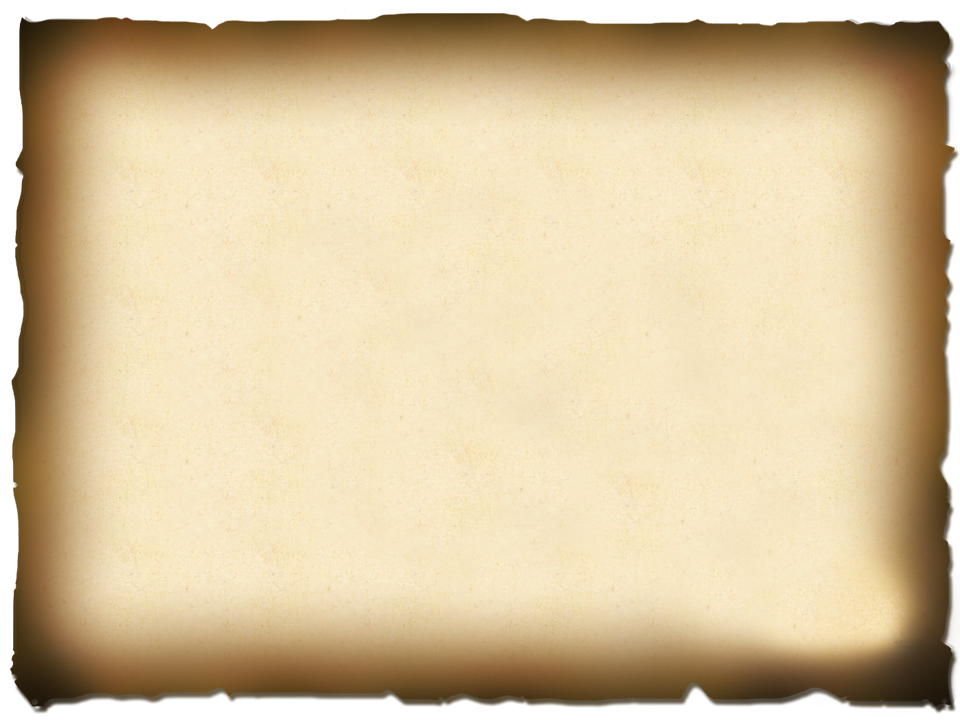
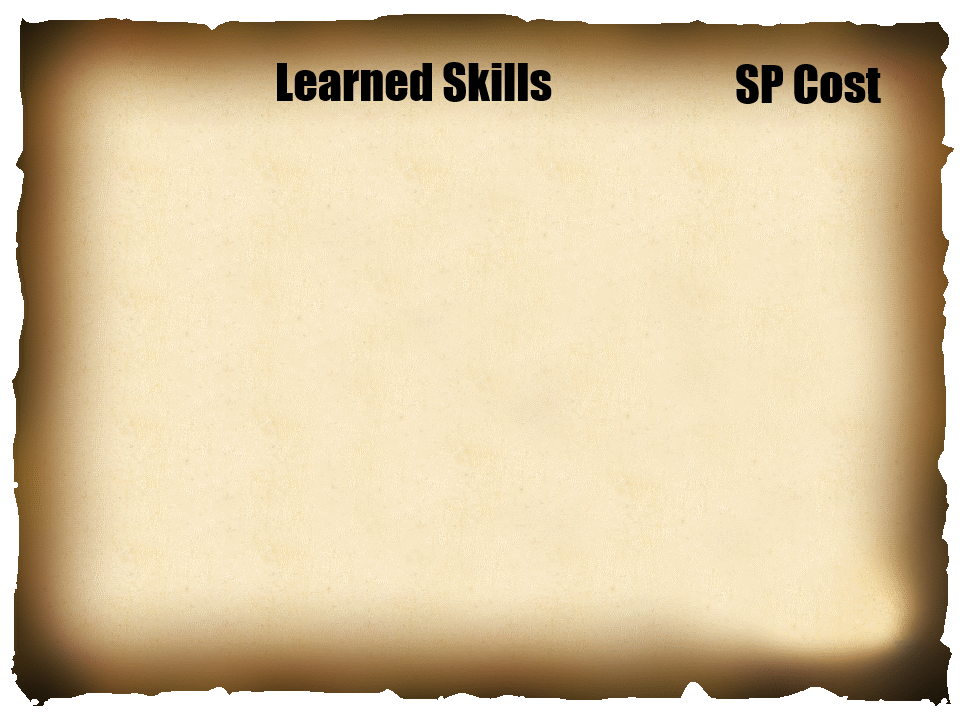
Item Menu

Changed region(s): [[0.0, 0.0306, 1.0, 1.0], [0.2812, 0.0611, 0.5938, 0.1528], [0.75, 0.0917, 0.9375, 0.1528]]

diff --git a/Assets/Scripts/Necessary/MainScene.cs b/Assets/Scripts/Necessary/MainScene.cs
@@ -8,6 +8,7 @@ public class MainScene : MonoBehaviour {
 	public GameObject enemybody; 
 	public GameObject playerbody; 
 	public GameObject SkillMenu;
+	public GameObject ItemMenu;
 	public GameObject question;
 	public bool enemyDestroyed;
 	public bool playerDestroyed;
@@ -15,6 +16,7 @@ public class MainScene : MonoBehaviour {
 	public bool questionAsked;
 	private bool isShowing;
 	private bool isShowingSkill;
+	private bool isShowingItem;
 
 	// Use this for initialization
 	void Start () {
@@ -22,6 +24,7 @@ public class MainScene : MonoBehaviour {
 		this.potionDeployed = false;
 		this.question.SetActive(false);
 		this.SkillMenu.SetActive(false);
+		this.ItemMenu.SetActive(false);
 		this.isShowingSkill = false;
 		this.isShowing = false;
 	}
@@ -44,16 +47,49 @@ public class MainScene : MonoBehaviour {
 		if (this.playerDestroyed == false && this.playerOne.hasAttacked == false && this.UFOenemy.attackPlayed() == false && this.enemyDestroyed == false) 
 		{
 			Debug.Log ("Skill opened");
+			if (this.isShowingItem == true)
+			{
+				this.isShowingItem = false;
+				this.ItemMenu.SetActive(this.isShowingItem);
+			}
 			this.isShowingSkill = !this.isShowingSkill;
 			this.SkillMenu.SetActive(this.isShowingSkill);
-//			this.checkSkill();
+				//			this.checkSkill();
 		}
 	}
-
+	
+	public void openItem()
+	{
+		Debug.Log ("Item opened");
+		if (this.playerDestroyed == false && this.playerOne.hasAttacked == false && this.UFOenemy.attackPlayed() == false && this.enemyDestroyed == false) 
+		{
+			Debug.Log ("Item opened");
+			if (this.isShowingSkill == true)
+			{
+				this.isShowingSkill = false;
+				this.SkillMenu.SetActive(this.isShowingSkill);
+			}
+			this.isShowingItem = !this.isShowingItem;
+			this.ItemMenu.SetActive(this.isShowingItem);
+			//			this.checkSkill();
+		}
+	}
+	
 	public void checkAttack()
 	{
 		Debug.Log ("Serang!");
 		int Attack;
+		if (this.isShowingItem == true)
+		{
+			this.isShowingItem = false;
+			this.ItemMenu.SetActive(this.isShowingItem);
+		}
+		else if (this.isShowingSkill == true)
+		{
+			this.isShowingSkill = false;
+			this.SkillMenu.SetActive(this.isShowingSkill);
+		}
+
 		if (this.playerDestroyed == false && this.playerOne.hasAttacked == false && this.UFOenemy.attackPlayed() == false && this.enemyDestroyed == false) 
 		{
 			int attackStart = this.playerOne.attackStart;
@@ -67,7 +103,7 @@ public class MainScene : MonoBehaviour {
 	}
 	
 //	public void checkSkill_Power_Slash()
-	public void checkSkill_Power_Slash(int SkillDamage)
+	public void checkSkill(int SkillDamage)
 	{
 		Debug.Log ("Skill!");
 //		SkillDamage *= SkillDamage;
@@ -95,6 +131,8 @@ public class MainScene : MonoBehaviour {
 				this.playerOne.hasAttacked = true;
 				this.potionDeployed = true;
 				this.playerOne.potion -= 1;
+				this.isShowingItem = !this.isShowingItem;
+				this.ItemMenu.SetActive(this.isShowingItem);
 
 			}
 		}

diff --git a/Assets/Scripts/Necessary/PlayerOne.cs b/Assets/Scripts/Necessary/PlayerOne.cs
@@ -22,6 +22,7 @@ public class PlayerOne : MonoBehaviour {
 	public int MattackEnd;
 	public bool hasAttacked;
 	public int potion;
+	public int SkillDamage;
 	Animator animator;
 
 	// Use this for initialization
@@ -52,19 +53,32 @@ public class PlayerOne : MonoBehaviour {
 
 	public int Skill_Power_Slash()
 	{
-		int attackStart = this.attackStart;
-		int attackEnd = this.attackEnd;
-		int SkillDamage;
-		SkillDamage = (Random.Range(attackStart, attackEnd))*5;
-//		this.UFOenemy.health -= SkillDamage*5;
+//		int attackStart = this.attackStart;
+//		int attackEnd = this.attackEnd;
+//		int SkillDamage;
+		SkillDamage = (Random.Range(this.attackStart, this.attackEnd))*5;
 		this.special -= 20;
 		this.updateSlider();
-//		this.UFOenemy.updateSlider();
 		this.hasAttacked = true;
 		this.playAttackAnim();
 		return(SkillDamage);
 	}
-
+	
+	public int Skill_Absorb()
+	{
+//		int attackStart = this.MattackStart;
+//		int attackEnd = this.MattackEnd;
+		SkillDamage = (Random.Range(this.MattackStart, MattackEnd))*5;
+		this.special -= 30;
+		this.updateSlider();
+		this.health += SkillDamage;
+		if(this.health > this.maxHealth)
+			this.health = this.maxHealth;
+		this.hasAttacked = true;
+		this.playAttackAnim();
+		return(SkillDamage);
+	}
+	
 	public void playAttackAnim()
 	{
 		animator.SetBool("Attack", true); 

diff --git a/Assets/SkillAbsorb.cs b/Assets/SkillAbsorb.cs
@@ -1,22 +1,22 @@
 using UnityEngine;
 using System.Collections;
 
-public class Skill_Power_Slash : MonoBehaviour {
+public class SkillAbsorb : MonoBehaviour {
 	public MainScene mainScene;
 	public PlayerOne PlayerOne;
 	int SkillDamage;
 	// Use this for initialization
 	void Start () {
-//		SkillDamage = this.PlayerOne.Skill_Power_Slash ();
+		//		SkillDamage = this.PlayerOne.Skill_Power_Slash ();
 	}
 	
 	// Update is called once per frame
 	void OnMouseDown() {
-		if (this.PlayerOne.special >= 25) 
+		if (this.PlayerOne.special >= 30) 
 		{
-			SkillDamage = this.PlayerOne.Skill_Power_Slash ();
+			SkillDamage = this.PlayerOne.Skill_Absorb ();
 			this.mainScene.checkSkill (SkillDamage);
 		}
-//		this.PlayerOne.Skill_Power_Slash (SkillDamage);
+		//		this.PlayerOne.Skill_Power_Slash (SkillDamage);
 	}
 }

diff --git a/Assets/SkillHeal.cs b/Assets/SkillHeal.cs
@@ -1,0 +1,24 @@
+using UnityEngine;
+using System.Collections;
+
+public class SkillHeal : MonoBehaviour {
+	public MainScene mainScene;
+	public PlayerOne PlayerOne;
+	int SkillDamage;
+	// Use this for initialization
+	void Start () {
+		//		SkillDamage = this.PlayerOne.Skill_Power_Slash ();
+	}
+	
+	// Update is called once per frame
+	void OnMouseDown() {
+		if (this.PlayerOne.special != 10) 
+		{
+//			SkillDamage = this.PlayerOne.Skill_Power_Slash ();
+//			this.mainScene.checkSkill (SkillDamage);
+			this.PlayerOne.special -= 10;
+			this.mainScene.addHealth();
+		}
+		//		this.PlayerOne.Skill_Power_Slash (SkillDamage);
+	}
+}

diff --git a/Assets/ButtonItem.cs b/Assets/ButtonItem.cs
@@ -1,0 +1,15 @@
+using UnityEngine;
+using System.Collections;
+
+public class ButtonItem : MonoBehaviour {
+	public MainScene mainScene;
+	// Use this for initialization
+	void Start () {
+		
+	}
+	
+	// Update is called once per frame
+	void OnMouseDown() {
+		this.mainScene.openItem();
+	}
+}
